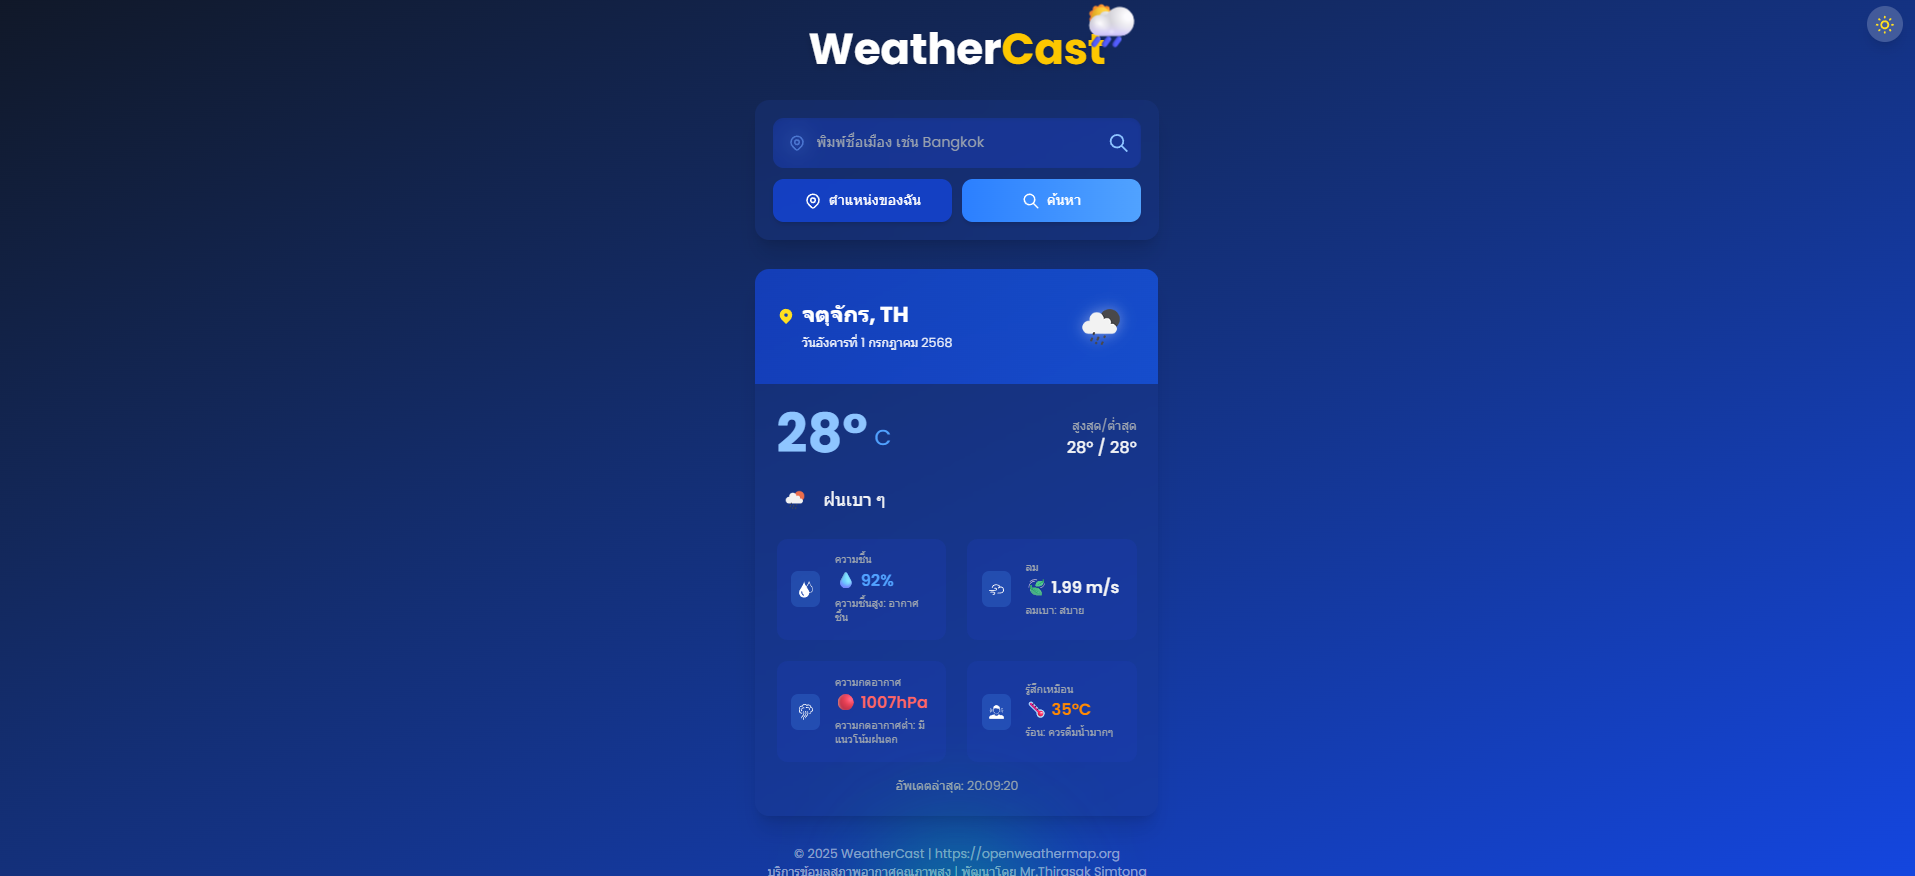
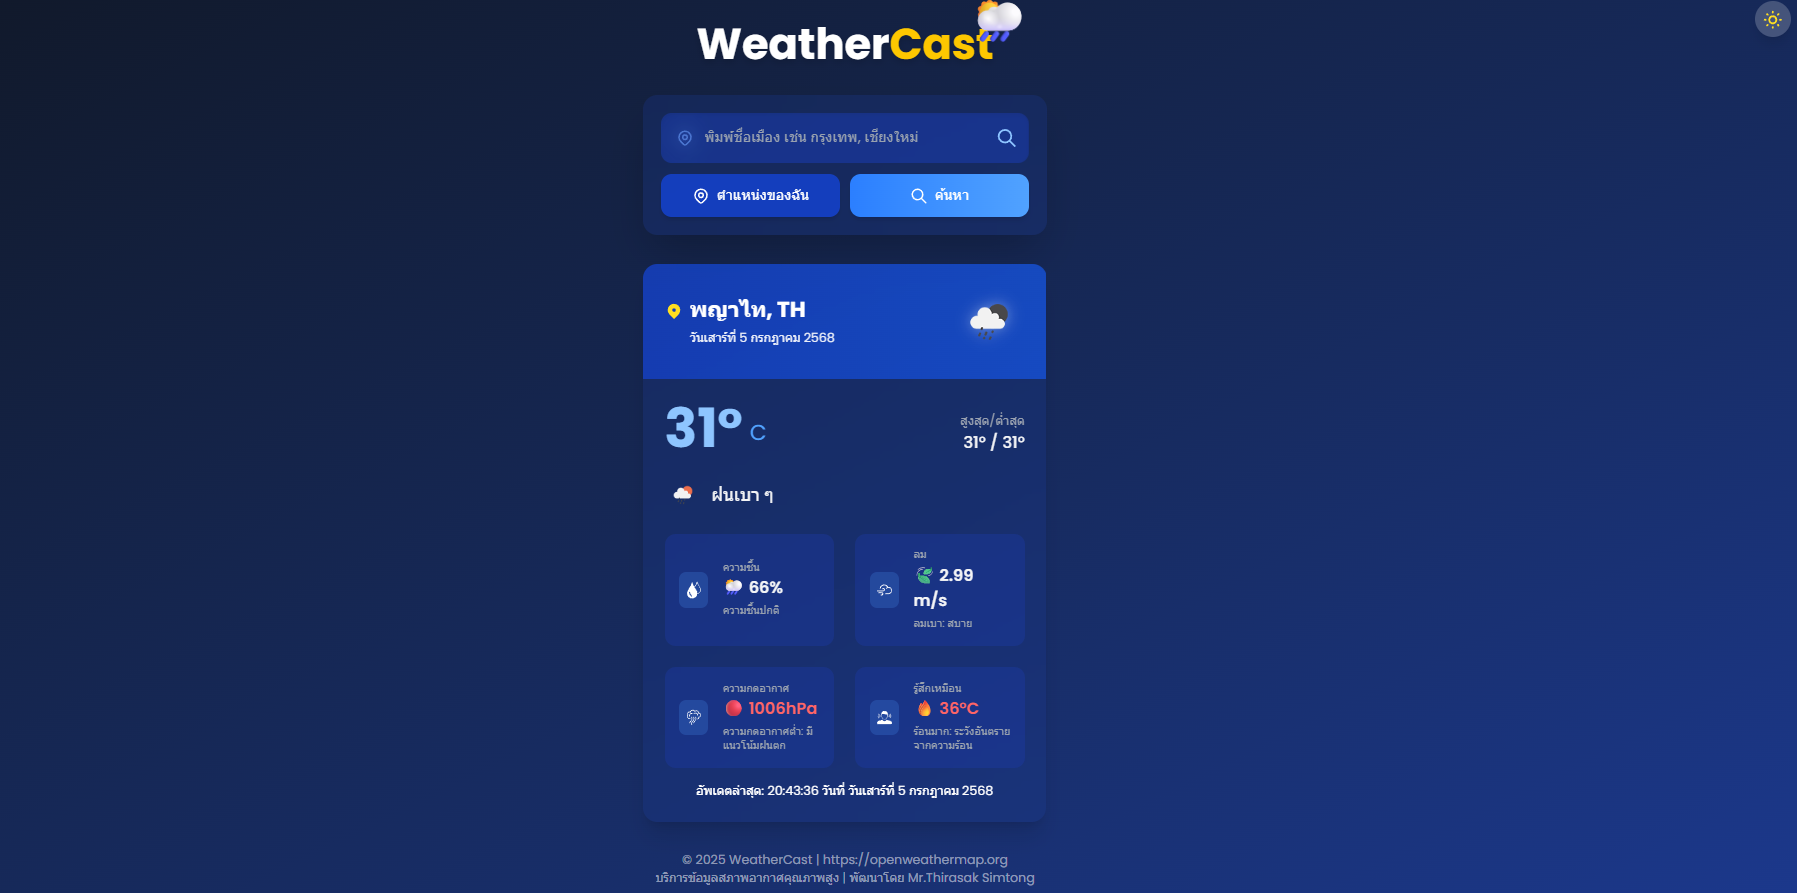
update all file

diff --git a/pages/index.vue b/pages/index.vue
@@ -51,7 +51,7 @@
             @keyup.enter="fetchWeatherByCity"
             @input="handleInputChange"
             class="w-full p-4 pl-12 pr-12 rounded-xl border-0 bg-white/80 dark:bg-blue-800/40 backdrop-blur-md text-gray-800 dark:text-white placeholder-gray-500 dark:placeholder-gray-400 shadow-inner focus:outline-none focus:ring-2 focus:ring-blue-400 dark:focus:ring-blue-300 transition-all duration-300"
-            placeholder="พิมพ์ชื่อเมือง เช่น Bangkok"
+            placeholder="พิมพ์ชื่อเมือง เช่น กรุงเทพ, เชียงใหม่"
           />
           <button 
             @click="fetchWeatherByCity" 
@@ -219,8 +219,9 @@
           </div>
           
           <!-- Last Updated -->
-          <div class="text-center mt-4 text-sm text-gray-500 dark:text-gray-400">
-            อัพเดตล่าสุด: {{ getLastUpdated() }}
+           
+          <div class="text-center mt-4 text-sm text-white dark:text-white">
+            อัพเดตล่าสุด: {{ getLastUpdated() }}  {{ getCurrentDate() }}
           </div>
         </div>
       </div>
@@ -326,7 +327,9 @@ const fetchWeatherByCity = async () => {
   try {
     loadingLocation.value = true
     error.value = null // Clear previous errors
-    const res = await fetch(`https://api.openweathermap.org/data/2.5/weather?q=${city.value}&units=metric&appid=${API_KEY}&lang=th`)
+    // เข้ารหัส URL เพื่อรองรับภาษาไทย
+    const encodedCity = encodeURIComponent(city.value.trim())
+    const res = await fetch(`https://api.openweathermap.org/data/2.5/weather?q=${encodedCity}&units=metric&appid=${API_KEY}&lang=th`)
     if (!res.ok) {
       if (res.status === 404) {
         throw new Error('ไม่พบเมืองนี้ กรุณาตรวจสอบชื่อเมืองอีกครั้ง')
